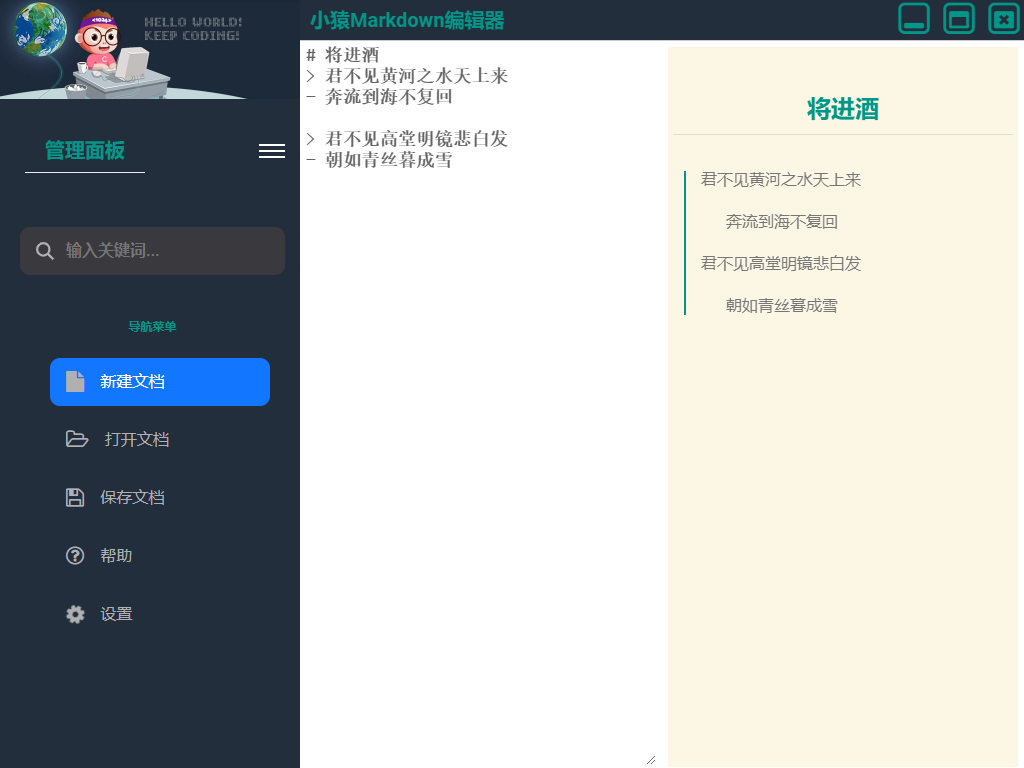
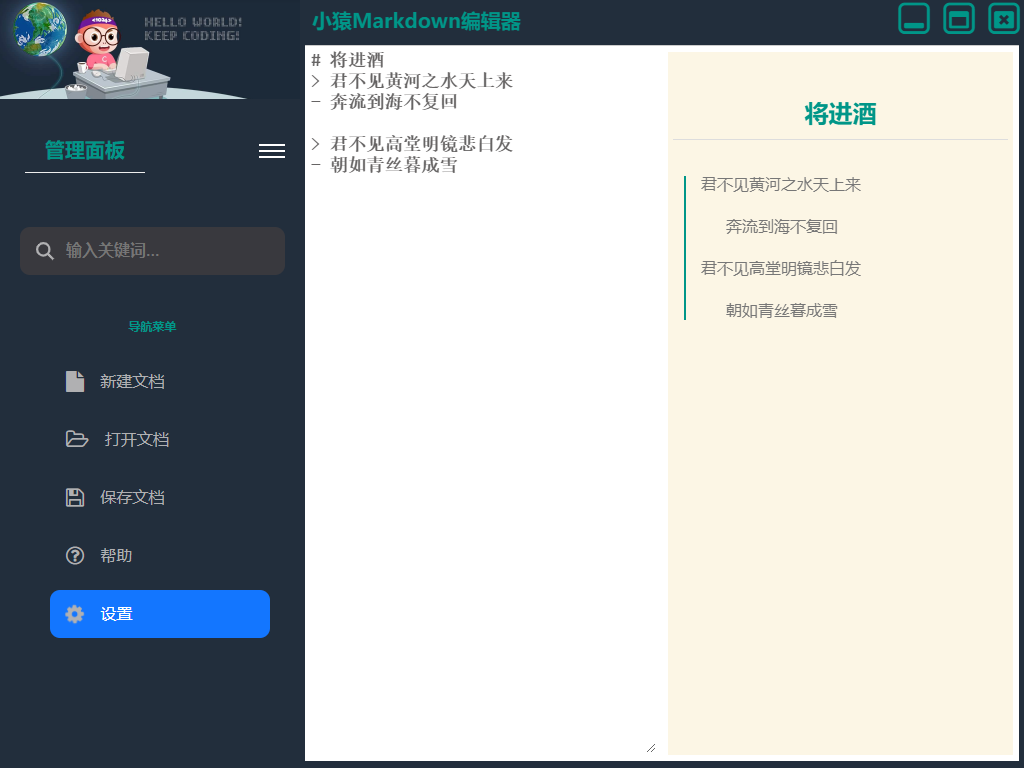
调整主界面样式

diff --git a/src/XiaoYuanMarkdownEditor/index.html b/src/XiaoYuanMarkdownEditor/index.html
@@ -36,6 +36,7 @@
         line-height: 40px;
         vertical-align: middle;
         -webkit-app-region: drag;
+        font-family:'微软雅黑';
     }
     .hRight .titleRight{
         position:absolute;
@@ -151,7 +152,7 @@
                         <i class="fa fa-window-close fa-stack-1x"></i>
                       </span>
                    </div>
-                <div id="area">
+                <div id="area" style="padding: 5px;">
                     <table id='tbArea' style="height: 800px;">
                         <tr>
                             <td><textarea autofocus id="md-area" onkeyup=mdSwitch()>

diff --git a/src/XiaoYuanMarkdownEditor/js/index.js b/src/XiaoYuanMarkdownEditor/js/index.js
@@ -68,9 +68,9 @@ function watchWindowSize() {
     // 打印结果
     console.log( "宽: " + w + ", " + "高: " + h);
     var tbArea =  document.getElementById("tbArea");
-    tbArea.style.height = (h-48)+"px";
+    tbArea.style.height = (h-65)+"px";
     var showarea = document.getElementById("show-area");
-    showarea.style.height = (h-48)+"px";
+    showarea.style.height = (h-65)+"px";
     document.getElementById("md-area").focus();
   }
   // 将事件侦听器函数附加到窗口的resize事件
